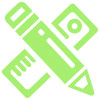
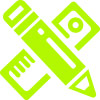
UNIT 5 Kirsten
For Comparison

diff --git a/Unit5_kirsten_bushell/css/style.css b/Unit5_kirsten_bushell/css/style.css
@@ -2,7 +2,7 @@
 
 body{
 	color:#414141;
-	background:url('../images/leaf2.jpg') no-repeat fixed;
+	background:url('../images/background.jpg') no-repeat fixed;
 	background-size:cover;
 	font-size:16px;
 	font-family: 'Roboto', sans-serif;
@@ -13,7 +13,7 @@ h1,h2{
 	padding-bottom: .5em;
 }
 h2{
-	color: #A7EF71;
+	color: #b3f700;
 	font-size: 2em;
 }
 header{
@@ -29,12 +29,12 @@ nav a{
 	color:#414141;
 	text-transform: uppercase;
 	text-decoration: none;
-	padding: 5em 1.5em 0 1.5em;
+	padding: 4.5em 1.5em 0 1.5em;
 	display:block;
 	float: left;
 }
 a:hover{
-	color:#A7EF71;
+	color:#b3f700;
 	font-weight: 400;
 }
 #splash{
@@ -45,11 +45,11 @@ a:hover{
 	font-family: 'Megrim', cursive;
 	font-size:6.5em;
 	line-height: 1.2em;
-	color: rgba(255,255,255,.6);
+	color: #00c41f;
 	padding:2em 0  0 2em;
 }
 #about{
-	background:rgba(65,65,65,.8);
+	background:rgba(65,65,65,1);
 	color:#fff;
 }
 #about div{
@@ -84,7 +84,7 @@ a:hover{
 	text-decoration: none;
 }
 #contact a:hover{
-	color:#A7EF71;
+	color:#b3f700;
 }
 footer {
 	background:#fff;

diff --git a/Unit5_kirsten_bushell/index.html b/Unit5_kirsten_bushell/index.html
@@ -10,7 +10,7 @@
 </head>
 <body>
 	<header>
-		<a href="#"><img src="images/KB_logo_rev.png" alt="Kirsten Bushell logo" title="Kirsten Bushell Digital Design"></a>
+		<a href="#"><img src="images/KB_logo1.png" alt="Kirsten Bushell logo" title="Kirsten Bushell Digital Design"></a>
 		<nav>
 			<a href="#">About</a>	
 			<a href="#">Work</a>	
